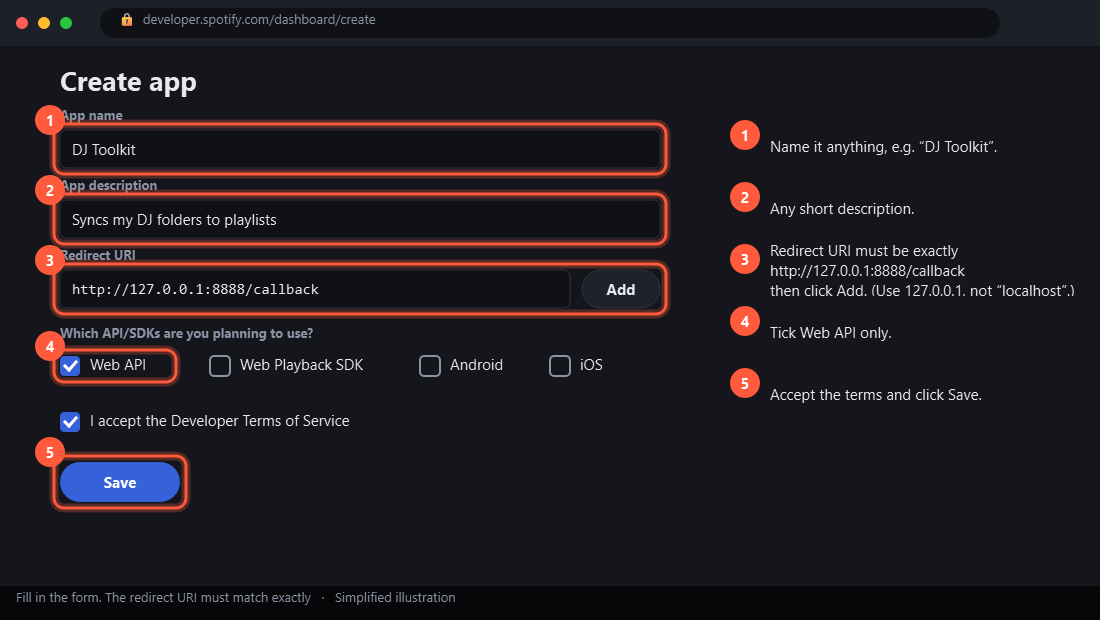
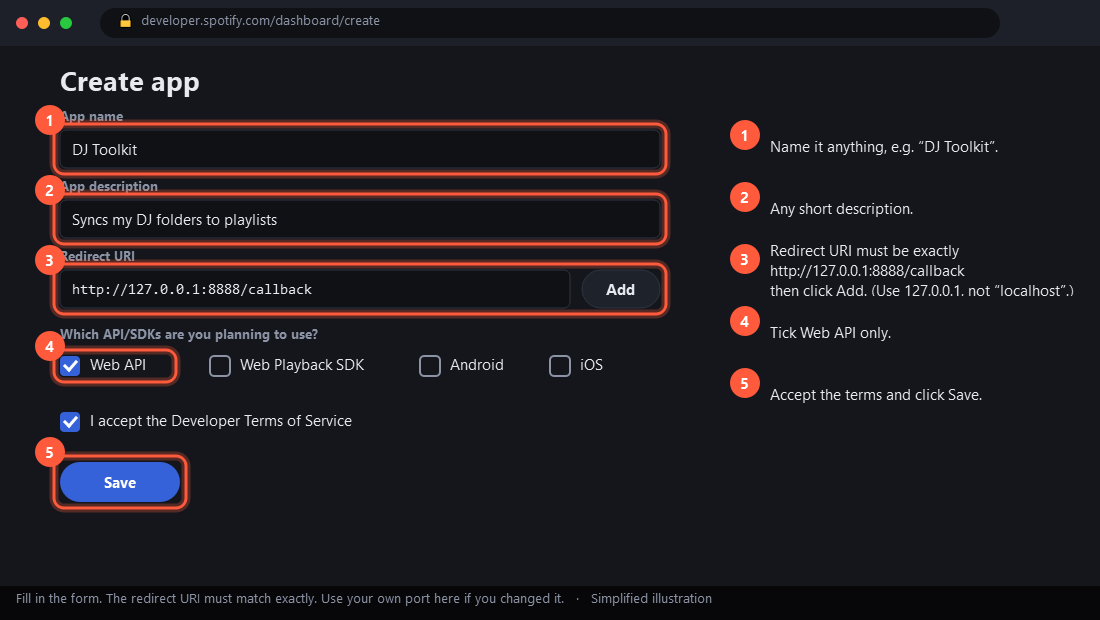
Add configurable callback port to Spotify sync tab (#44)
* Add configurable callback port to Spotify sync tab

* Fix PR review: add port fallback test, restore docs, update auth error

* Polish the callback port change after review

Keep the OS error in the busy-port message, wrap one docs line, drop a stray blank
line from the changelog and a trailing period from a table cell.

---------

diff --git a/tests/test_spotify.py b/tests/test_spotify.py
@@ -155,3 +155,42 @@ def test_legacy_cache_import_does_not_overwrite(tmp_path, monkeypatch):
     old.write_text(json.dumps({"q1": [{"uri": "u", "name": "n", "artists": ["a"]}], "q2": []}))
     assert engine.import_legacy_cache(old) == 2
     assert engine.import_legacy_cache(old) == 0
+
+
+def test_port_busy_error_mentions_ui():
+    import socket
+
+    import pytest
+
+    from djtoolkit.settings import Settings
+    from djtoolkit.spotify import auth
+
+    with socket.socket() as s:
+        s.bind(("127.0.0.1", 0))
+        busy_port = s.getsockname()[1]
+
+        settings = Settings()
+        settings.callback_port = busy_port
+
+        with pytest.raises(RuntimeError) as exc_info:
+            auth._authorize(settings, log=lambda msg: None, cancelled=lambda: False)
+
+        assert "More > Callback port" in str(exc_info.value)
+
+
+def test_callback_port_fallback_on_load(tmp_path, monkeypatch):
+    from djtoolkit.settings import Settings
+
+    # Test case 1: Out of range number
+    bad_json = tmp_path / "settings.json"
+    bad_json.write_text('{"callback_port": 80}', encoding="utf8")
+    monkeypatch.setattr(Settings, "path", classmethod(lambda cls: bad_json))
+    assert Settings.load().callback_port == 8888
+
+    # Test case 2: None (null in JSON)
+    bad_json.write_text('{"callback_port": null}', encoding="utf8")
+    assert Settings.load().callback_port == 8888
+
+    # Test case 3: String instead of integer
+    bad_json.write_text('{"callback_port": "80"}', encoding="utf8")
+    assert Settings.load().callback_port == 8888

diff --git a/djtoolkit/ui/sync_tab.py b/djtoolkit/ui/sync_tab.py
@@ -17,6 +17,7 @@ from PySide6.QtWidgets import (
     QDoubleSpinBox,
     QHBoxLayout,
     QHeaderView,
+    QInputDialog,
     QLabel,
     QLineEdit,
     QMenu,
@@ -174,6 +175,7 @@ class SyncTab(QWidget):
         menu = QMenu(self.more_btn)
         menu.addAction("Import the old tool's .env…", self._import_env)
         menu.addAction("Import the old tool's searches…", self._import_cache)
+        menu.addAction("Callback port…", self._set_callback_port)
         self.report_action = menu.addAction("Open the unmatched report", self._open_report)
         self.report_action.setEnabled(False)
         self.more_btn.setMenu(menu)
@@ -338,6 +340,19 @@ class SyncTab(QWidget):
         QMessageBox.information(
             self, "Searches imported", f"Added {n} remembered search(es). Those tracks won't need searching again."
         )
+
+    def _set_callback_port(self) -> None:
+        port, ok = QInputDialog.getInt(
+            self,
+            "Callback port",
+            "Spotify uses this port to link to DJ Toolkit. If another app uses it, change it here, then update the Redirect URI in your Spotify app to match.",
+            self.s.callback_port,
+            1024,
+            65535,
+        )
+        if ok:
+            self.s.callback_port = port
+            self._invalidate()
 
     def _open_report(self) -> None:
         if self.summary and self.summary.report_path:

diff --git a/tests/test_ui_logic.py b/tests/test_ui_logic.py
@@ -1,6 +1,7 @@
 """Theme, icons, Spotify sync gating, tutorials and dialogs."""
 
 from pathlib import Path
+from unittest.mock import patch
 
 import pytest
 
@@ -298,3 +299,26 @@ def test_floating_panels_paint_a_card_with_a_shadow_below_it(app):
         edge = img.pixelColor(img.width() // 2, img.height() - b - 3 + 6)  # just under the card's bottom edge
         assert edge.alpha() > 0  # the soft shadow is painted there, not left empty
     theme.apply(app, "dark", theme.DEFAULT_ACCENT)
+
+
+def test_callback_port_updates_on_ok(app):
+    from djtoolkit.settings import Settings
+    from djtoolkit.ui.sync_tab import SyncTab
+
+    t = SyncTab(Settings())
+    assert t.s.callback_port == 8888
+
+    with patch("djtoolkit.ui.sync_tab.QInputDialog.getInt", return_value=(9999, True)):
+        t._set_callback_port()
+        assert t.s.callback_port == 9999
+
+
+def test_callback_port_unchanged_on_cancel(app):
+    from djtoolkit.settings import Settings
+    from djtoolkit.ui.sync_tab import SyncTab
+
+    t = SyncTab(Settings())
+
+    with patch("djtoolkit.ui.sync_tab.QInputDialog.getInt", return_value=(8888, False)):
+        t._set_callback_port()
+        assert t.s.callback_port == 8888

diff --git a/djtoolkit/spotify/auth.py b/djtoolkit/spotify/auth.py
@@ -122,7 +122,8 @@ def _authorize(
         server = HTTPServer(("127.0.0.1", s.callback_port), Handler)
     except OSError as e:
         raise RuntimeError(
-            f"Port {s.callback_port} is busy ({e}). Close whatever uses it or change the callback port."
+            f"Port {s.callback_port} can't be used ({e}). Close whatever uses it, or open More > Callback port in the "
+            "app to change it, then update the Redirect URI in your Spotify app to match."
         ) from e
     server.timeout = 0.5
     log("Opening your browser to authorize Spotify…")

diff --git a/djtoolkit/settings.py b/djtoolkit/settings.py
@@ -127,6 +127,10 @@ class Settings:
         for k, v in raw.items():
             if k in known:
                 setattr(s, k, v)
+
+        # Fallback to 8888 if the loaded port is not an integer or out of range
+        if not isinstance(s.callback_port, int) or not (1024 <= s.callback_port <= 65535):
+            s.callback_port = 8888
         return s
 
     def save(self) -> None:

diff --git a/tools/make_setup_images.py b/tools/make_setup_images.py
@@ -217,7 +217,7 @@ def step3() -> QImage:
         ],
         330,
     )
-    caption(p, "Fill in the form. The redirect URI must match exactly")
+    caption(p, "Fill in the form. The redirect URI must match exactly. Use your own port here if you changed it.")
     p.end()
     return img
 

diff --git a/docs/getting-started.md b/docs/getting-started.md
@@ -58,6 +58,6 @@ every page in both looks into `screenshots\`, using a demo vocal and a throwaway
 | `py` isn't recognised | Install Python from python.org, not the Microsoft Store, or call `python` by its full path |
 | `pip install` fails building something | You're on another Python version, or 32-bit Python. Use 64-bit Python 3.12 |
 | "No audio output found" in the app | Windows sees no sound device. You can still place beats by eye; the tests don't need audio |
-| Linking Spotify says port 8888 is busy | Close whatever uses it, or set `callback_port` in `%APPDATA%\DJToolkit\settings.json` and use the same port in your Spotify app's Redirect URI |
+| Linking Spotify says port 8888 is busy | Close whatever uses it, or open More > Callback port in the app to change it, then update the Redirect URI in your Spotify app to match |
 | `check.bat` fails on formatting | Run `check.bat --fix` |
 | You're worried tests touch your settings | They can't: `tests/conftest.py` points `%APPDATA%` at a temporary folder |

diff --git a/docs/user-guide.md b/docs/user-guide.md
@@ -29,7 +29,8 @@ MP3 named `Name - 128bpm.ext`, with the BPM tagged.
 ## Spotify sync: each folder becomes a playlist
 
 1. **Link Spotify.** The six-step guide walks you through creating a Spotify app, setting its Redirect URI to
-   `http://127.0.0.1:8888/callback`, pasting the Client ID and approving access.
+   `http://127.0.0.1:8888/callback`, pasting the Client ID and approving access. If you changed the Callback port
+   via More, update this URI to match.
 2. **Choose your music folder.** Every folder inside it becomes a playlist.
 3. **Preview changes** first. **Sync playlists** unlocks after a preview, because syncing removes tracks that are no
    longer in a folder. Changing any setting asks for a fresh preview. Your music files are never touched.

diff --git a/CHANGELOG.md b/CHANGELOG.md
@@ -7,6 +7,7 @@ and versions follow [Semantic Versioning](https://semver.org/). Each release's s
 
 ### Added
 
+- You can change the Spotify callback port (Spotify sync, More, Callback port) if something else uses 8888.
 - You can now check a download. GitHub keeps a signed record of where each file was built, and the release has a
   `SHA256SUMS.txt` to check it arrived whole. How:
   [Check a download](https://github.com/tomgreef/dj-toolkit/blob/main/docs/releasing.md#check-a-download).
